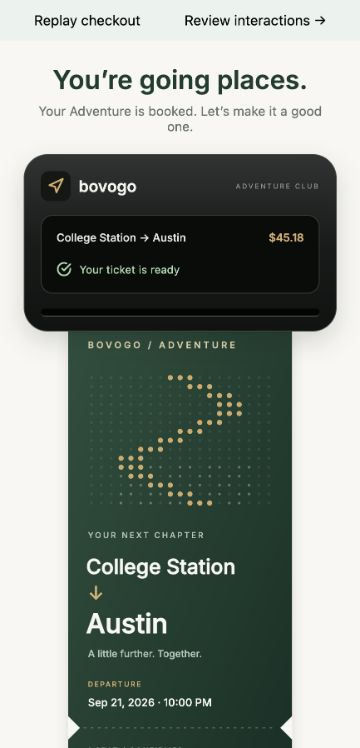
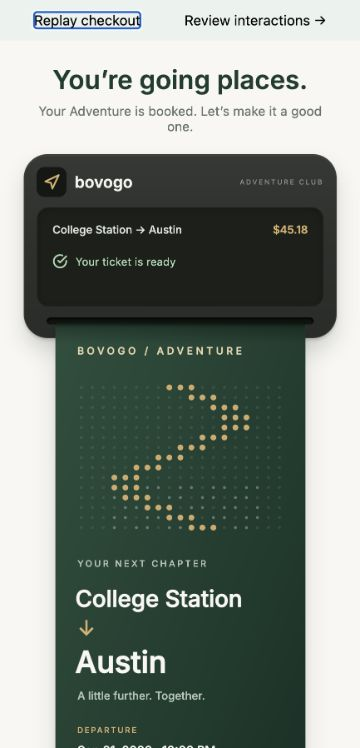
fix(checkout): feed ticket through recessed printer slot

diff --git a/mobile/artifacts/mobile/components/checkout/ReceiptPrinter.tsx b/mobile/artifacts/mobile/components/checkout/ReceiptPrinter.tsx
@@ -25,7 +25,7 @@ import { useReducedMotion } from "./useReducedMotion";
 export function ReceiptPrinter({ booking }: { booking: Booking }) {
   const { width: screenWidth } = useWindowDimensions();
   const width = Math.min(360, screenWidth - 48);
-  const paperWidth = Math.min(224, width * 0.73);
+  const paperWidth = Math.min(272, width * 0.8);
   const paperHeight = paperWidth * 2.4;
   const reduced = useReducedMotion();
   const progress = useSharedValue(0);
@@ -80,7 +80,7 @@ export function ReceiptPrinter({ booking }: { booking: Booking }) {
   return (
     <View style={{ width, alignItems: "center", paddingBottom: 22 }}>
       <LinearGradient
-        colors={["#303332", "#181B19", "#101311"]}
+        colors={["#363835", "#2D302C", "#292C28"]}
         style={[styles.machine, { width }]}
       >
         <View style={styles.header}>
@@ -125,11 +125,13 @@ export function ReceiptPrinter({ booking }: { booking: Booking }) {
       </LinearGradient>
       <View
         style={{
-          width: paperWidth + 22,
-          height: paperHeight,
+          width: paperWidth + 48,
+          height: paperHeight + 32,
           overflow: "hidden",
-          marginTop: -12,
-          zIndex: 1,
+          // The aperture is 16 px above the case bottom. Paper clips at
+          // its centre and passes IN FRONT of the lower case, not behind it.
+          marginTop: -16,
+          zIndex: 3,
           alignItems: "center",
         }}
       >
@@ -142,25 +144,24 @@ export function ReceiptPrinter({ booking }: { booking: Booking }) {
           style={[
             {
               opacity: stage === "processing" ? 0 : 1,
-              boxShadow: "0 12px 14px rgba(17, 31, 23, 0.13)",
+              boxShadow:
+                "0 3px 6px rgba(12,20,14,0.10), 0 14px 24px rgba(12,20,14,0.12)",
             },
             paperStyle,
           ]}
         >
-          <TravelTicket
-            booking={booking}
-            width={paperWidth}
-            tilt={stage === "complete"}
-          />
+          <TravelTicket booking={booking} width={paperWidth} tilt={false} />
         </Animated.View>
         <LinearGradient
           pointerEvents="none"
-          colors={["rgba(0,0,0,.5)", "transparent"]}
+          colors={["rgba(0,0,0,.72)", "rgba(0,0,0,.25)", "rgba(0,0,0,0)"]}
+          locations={[0, 0.23, 1]}
           style={{
             position: "absolute",
             top: 0,
             width: paperWidth,
-            height: 15,
+            height: 22,
+            opacity: stage === "processing" ? 0 : 1,
           }}
         />
       </View>
@@ -169,18 +170,20 @@ export function ReceiptPrinter({ booking }: { booking: Booking }) {
 }
 const styles = StyleSheet.create({
   machine: {
-    padding: 16,
-    paddingBottom: 14,
+    height: 184,
+    padding: 12,
+    paddingBottom: 28,
     borderRadius: 24,
     borderWidth: 1,
-    borderColor: "#424740",
+    borderColor: "#393D37",
     zIndex: 2,
-    boxShadow: "0 10px 24px rgba(20,30,23,.16)",
+    boxShadow:
+      "0 2px 3px rgba(10,18,12,.16), 0 12px 20px rgba(10,18,12,.16), inset 0 1px 0 rgba(255,255,255,.07)",
   },
   header: {
     flexDirection: "row",
     alignItems: "center",
-    marginBottom: 14,
+    marginBottom: 10,
     gap: 8,
   },
   logo: {
@@ -199,11 +202,13 @@ const styles = StyleSheet.create({
     letterSpacing: 1.3,
   },
   screen: {
-    backgroundColor: "#090D0A",
+    height: 100,
+    backgroundColor: "#1C1F1B",
     borderRadius: 12,
     padding: 15,
     borderWidth: 1,
-    borderColor: "#363D36",
+    borderColor: "#242822",
+    boxShadow: "inset 0 2px 8px rgba(0,0,0,.22)",
   },
   screenRow: { flexDirection: "row", gap: 12, justifyContent: "space-between" },
   route: {
@@ -216,11 +221,15 @@ const styles = StyleSheet.create({
   status: { flexDirection: "row", alignItems: "center", gap: 8, marginTop: 17 },
   statusText: { color: "#9EA8A0", fontSize: 11 },
   slot: {
+    position: "absolute",
+    left: 22,
+    right: 22,
+    bottom: 12,
     height: 8,
-    marginTop: 15,
     borderRadius: 5,
-    backgroundColor: "#030503",
+    backgroundColor: "#111410",
     borderBottomWidth: 1,
-    borderColor: "#535A52",
+    borderColor: "rgba(255,255,255,.10)",
+    boxShadow: "inset 0 2px 3px rgba(0,0,0,.8)",
   },
 });

diff --git a/workflow/CHECKOUT_PRINTER_REBUILD_2026-09-13.md b/workflow/CHECKOUT_PRINTER_REBUILD_2026-09-13.md
@@ -60,3 +60,11 @@ The review results are saved alongside the build evidence. Claude did not author
 ## Reference
 
 Reviewed the supplied Google document “Transitions” and extracted frames from all four supplied recordings. Implemented the React Native/Reanimated equivalents of the reference’s printer, ticket, hold/Undo, and card-fan interactions without adding its web-only motion/tilt dependencies.
+
+## Printer depth refinement after visual review
+
+Compared the supplied printer recording at preparation, partial feed and completion. Corrected the paper mask to start at the aperture centre, 16 px above the case bottom, and placed the paper in front of the lower case lip. Previously the complete case covered the paper, making it appear behind the machine. Paper now occupies 80% of the machine width (up to 272 px), matching the reference proportions more closely.
+
+Added a recessed slot, a tight contact shadow fading down the paper, a subtle case-edge highlight, and separate soft machine/paper shadows with sufficient mask space to avoid clipping the paper shadow. The ticket stays flat while held by the printer; tilt remains available in the standalone ticket view. The stepped feed timing and actual checkout integration are unchanged.
+
+Verified the mid-feed frame visually; updated the recorded animation and completion screenshot. Typecheck and production web export passed. This visual-only refinement does not change payment or booking behavior.
